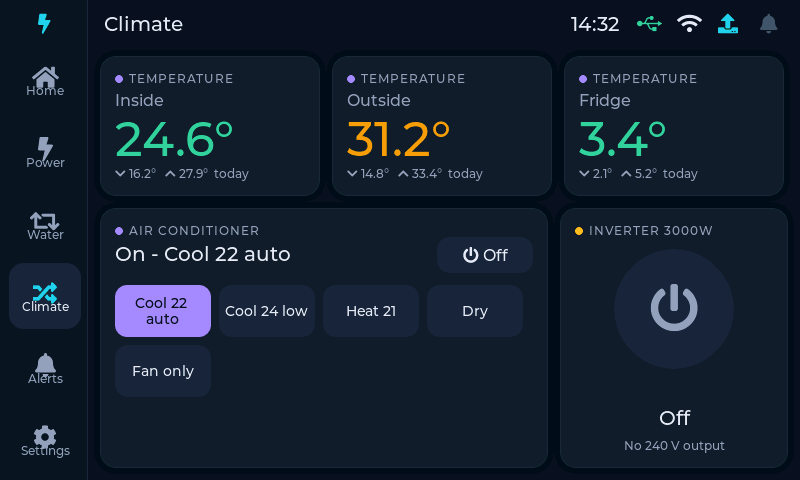
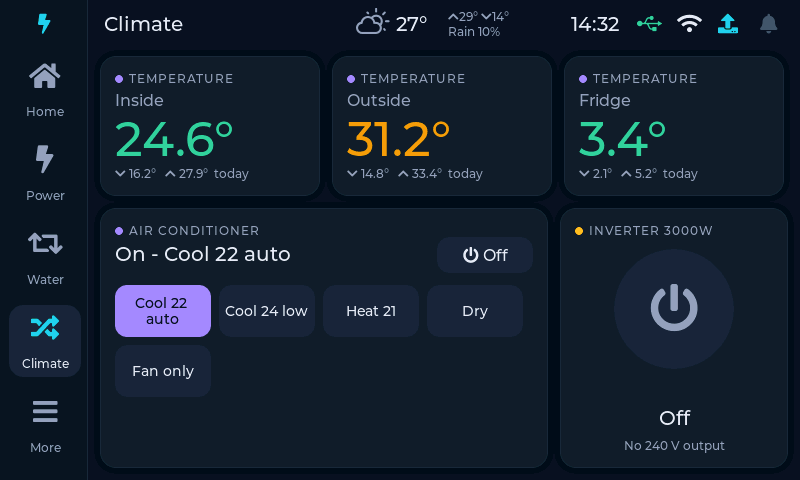
Declutter navigation: everyday pages on the rail, the rest under More
- Nav rail now has 5 larger buttons: Home, Power, Water, Climate, More
- New "More" page with big tiles for Caravan level, Alerts & rules
  (shows the active alert count) and Settings
- Sub-pages light up "More" and show a back arrow in the title (tap to
  return); the status-bar bell is a one-tap shortcut to Alerts, and
  the alert banner still jumps straight there
- Dashboard: Level link moved from the header into the Setup tab
- Screenshots regenerated; README updated

Claude-Session: https://claude.ai/code/session_01PBSbXAepSKBusnyywjQNLq

diff --git a/web/index.html b/web/index.html
@@ -108,7 +108,6 @@ pre { white-space:pre-wrap; font-size:12px; background:var(--tile); padding:10px
 <header>
   <h1>⚡ Caravan Power</h1>
   <span class="sp"></span>
-  <a href="level.html" class="pill" style="text-decoration:none">◎ Level</a>
   <span id="conn" class="pill">Connecting…</span>
   <span id="updated" class="pill">--</span>
 </header>
@@ -206,6 +205,11 @@ pre { white-space:pre-wrap; font-size:12px; background:var(--tile); padding:10px
         <div id="vicRows"></div>
         <div class="row" style="margin-top:8px"><button class="btn" id="vicScan">Find nearby</button></div>
         <div id="vicSeen" class="small muted" style="margin-top:6px"></div>
+      </div>
+      <div class="card span6" style="--dot:var(--accent)">
+        <div class="cap">Caravan level</div>
+        <p class="muted small">Bubble level with wheel and jockey heights. Connects to the van over Bluetooth, so it works at sites without internet.</p>
+        <a class="btn" href="level.html" style="display:inline-block; text-decoration:none">Open level page</a>
       </div>
       <div class="card span6" style="--dot:var(--water)">
         <div class="cap">Weather location</div>

diff --git a/firmware/display/src/ui/ui_common.cpp b/firmware/display/src/ui/ui_common.cpp
@@ -205,15 +205,19 @@ void fmtDuration(char *buf, size_t n, int32_t m) {
 
 // ================================================================ shell
 static lv_obj_t *gPages[PAGE_COUNT];
-static lv_obj_t *gNavBtns[PAGE_COUNT];
+static constexpr int NAV_COUNT = 5;
+static const int kRail[NAV_COUNT] = {PAGE_HOME, PAGE_POWER, PAGE_WATER, PAGE_CLIMATE, PAGE_MORE};
+static lv_obj_t *gNavBtns[NAV_COUNT];
+static lv_obj_t *gMoreAlerts;
 static lv_obj_t *gTitle, *gClock, *gIcoLink, *gIcoWifi, *gIcoCloud, *gBell, *gBellCount;
 static lv_obj_t *gBanner, *gBannerText, *gBannerBtn;
 static int gPage = -1;
 static int gSleepMin = 5;
 
-static const char *kPageNames[PAGE_COUNT] = {"Home", "Power", "Water", "Climate", "Level", "Alerts", "Settings"};
-static const char *kPageIcons[PAGE_COUNT] = {LV_SYMBOL_HOME, LV_SYMBOL_CHARGE, LV_SYMBOL_LOOP, LV_SYMBOL_SHUFFLE,
-                                             LV_SYMBOL_GPS, LV_SYMBOL_BELL, LV_SYMBOL_SETTINGS};
+static const char *kPageNames[PAGE_COUNT] = {"Home", "Power", "Water", "Climate", "More", "Level", "Alerts", "Settings"};
+static const char *kPageIcons[PAGE_COUNT] = {LV_SYMBOL_HOME,  LV_SYMBOL_CHARGE, LV_SYMBOL_LOOP, LV_SYMBOL_SHUFFLE,
+                                             LV_SYMBOL_BARS,  LV_SYMBOL_GPS,    LV_SYMBOL_BELL, LV_SYMBOL_SETTINGS};
+static bool isSubPage(int p) { return p == PAGE_LEVEL || p == PAGE_ALERTS || p == PAGE_SETTINGS; }
 
 int sleepMinutes() { return gSleepMin; }
 
@@ -222,19 +226,65 @@ static void navCb(lv_event_t *e) { showPage((int)(intptr_t)lv_event_get_user_dat
 void showPage(int p) {
   if (p == gPage) return;
   for (int i = 0; i < PAGE_COUNT; i++) {
-    bool on = i == p;
-    if (on) lv_obj_clear_flag(gPages[i], LV_OBJ_FLAG_HIDDEN);
+    if (i == p) lv_obj_clear_flag(gPages[i], LV_OBJ_FLAG_HIDDEN);
     else lv_obj_add_flag(gPages[i], LV_OBJ_FLAG_HIDDEN);
+  }
+  int railPage = isSubPage(p) ? PAGE_MORE : p;  // sub-pages light up "More"
+  for (int i = 0; i < NAV_COUNT; i++) {
+    bool on = kRail[i] == railPage;
     lv_obj_set_style_bg_opa(gNavBtns[i], on ? LV_OPA_COVER : LV_OPA_TRANSP, 0);
     lv_obj_set_style_text_color(lv_obj_get_child(gNavBtns[i], 0), c(on ? col::ACCENT : col::MUTED), 0);
     lv_obj_set_style_text_color(lv_obj_get_child(gNavBtns[i], 1), c(on ? col::TEXT : col::MUTED), 0);
   }
   gPage = p;
-  lv_label_set_text(gTitle, kPageNames[p]);
+  // Sub-pages get a back arrow in the title (tap it to return to More).
+  if (isSubPage(p)) setText(gTitle, LV_SYMBOL_LEFT "  %s", kPageNames[p]);
+  else lv_label_set_text(gTitle, kPageNames[p]);
   app::stateDirty = true;  // refresh the newly visible page right away
 }
 
 static void ackCb(lv_event_t *) { app::cmd("ack"); }
+static void titleCb(lv_event_t *) {
+  if (isSubPage(gPage)) showPage(PAGE_MORE);
+}
+static void bellCb(lv_event_t *) { showPage(PAGE_ALERTS); }
+
+// "More" page: big tiles for the things you only need now and then.
+static void moreTileCb(lv_event_t *e) { showPage((int)(intptr_t)lv_event_get_user_data(e)); }
+static lv_obj_t *moreTile(lv_obj_t *p, int x, int page, const char *sym, const char *title, const char *sub,
+                          uint32_t accent) {
+  lv_obj_t *b = lv_btn_create(p);
+  lv_obj_set_size(b, 216, 220);
+  lv_obj_set_pos(b, x, 96);  // vertically centred in the page
+  lv_obj_set_style_bg_color(b, c(col::CARD), 0);
+  lv_obj_set_style_border_color(b, c(col::BORDER), 0);
+  lv_obj_set_style_border_width(b, 1, 0);
+  lv_obj_set_style_radius(b, 18, 0);
+  lv_obj_set_style_shadow_width(b, 0, 0);
+  lv_obj_add_event_cb(b, moreTileCb, LV_EVENT_CLICKED, (void *)(intptr_t)page);
+  lv_obj_t *ic = lbl(b, &lv_font_montserrat_48, accent, sym);
+  lv_obj_align(ic, LV_ALIGN_TOP_MID, 0, 28);
+  lv_obj_t *t = lbl(b, &lv_font_montserrat_20, col::TEXT, title);
+  lv_obj_align(t, LV_ALIGN_TOP_MID, 0, 112);
+  lv_obj_t *s = lbl(b, &lv_font_montserrat_14, col::MUTED, sub);
+  lv_obj_set_width(s, 190);
+  lv_obj_set_style_text_align(s, LV_TEXT_ALIGN_CENTER, 0);
+  lv_label_set_long_mode(s, LV_LABEL_LONG_WRAP);
+  lv_obj_align(s, LV_ALIGN_TOP_MID, 0, 146);
+  return s;
+}
+
+static void buildMore(lv_obj_t *p) {
+  moreTile(p, 12, PAGE_LEVEL, LV_SYMBOL_GPS, "Caravan level", "Bubble level and wheel / jockey heights", col::ACCENT);
+  gMoreAlerts = moreTile(p, 248, PAGE_ALERTS, LV_SYMBOL_BELL, "Alerts & rules", "", col::WARN);
+  moreTile(p, 484, PAGE_SETTINGS, LV_SYMBOL_SETTINGS, "Settings", "Aircon, weather location, display", col::MUTED);
+}
+
+static void updateMore() {
+  int n = app::state.alertCount;
+  if (n) setText(gMoreAlerts, "%d active alert%s", n, n == 1 ? "" : "s");
+  else setText(gMoreAlerts, "All clear. Edit alert thresholds here");
+}
 static void bannerCb(lv_event_t *) { showPage(PAGE_ALERTS); }
 
 static void buildShell() {
@@ -250,20 +300,22 @@ static void buildShell() {
   lv_obj_set_style_border_color(rail, c(col::BORDER), 0);
   lv_obj_set_style_border_width(rail, 1, 0);
   lv_obj_t *logo = lbl(rail, &lv_font_montserrat_20, col::ACCENT, LV_SYMBOL_CHARGE);
-  lv_obj_align(logo, LV_ALIGN_TOP_MID, 0, 8);
-  for (int i = 0; i < PAGE_COUNT; i++) {
+  lv_obj_align(logo, LV_ALIGN_TOP_MID, 0, 12);
+  for (int i = 0; i < NAV_COUNT; i++) {
+    int pg = kRail[i];
     lv_obj_t *b = lv_btn_create(rail);
-    lv_obj_set_size(b, 72, 58);
-    lv_obj_set_pos(b, 8, 40 + i * 62);
+    lv_obj_set_size(b, 72, 72);
+    lv_obj_set_pos(b, 8, 52 + i * 84);
+    lv_obj_set_style_pad_all(b, 0, 0);
     lv_obj_set_style_radius(b, 14, 0);
     lv_obj_set_style_shadow_width(b, 0, 0);
     lv_obj_set_style_bg_color(b, c(col::TILE), 0);
     lv_obj_set_style_bg_opa(b, LV_OPA_TRANSP, 0);
-    lv_obj_t *ic = lbl(b, &lv_font_montserrat_24, col::MUTED, kPageIcons[i]);
-    lv_obj_align(ic, LV_ALIGN_TOP_MID, 0, 3);
-    lv_obj_t *tx = lbl(b, &lv_font_montserrat_12, col::MUTED, kPageNames[i]);
-    lv_obj_align(tx, LV_ALIGN_BOTTOM_MID, 0, -2);
-    lv_obj_add_event_cb(b, navCb, LV_EVENT_CLICKED, (void *)(intptr_t)i);
+    lv_obj_t *ic = lbl(b, &lv_font_montserrat_28, col::MUTED, kPageIcons[pg]);
+    lv_obj_align(ic, LV_ALIGN_TOP_MID, 0, 8);
+    lv_obj_t *tx = lbl(b, &lv_font_montserrat_12, col::MUTED, kPageNames[pg]);
+    lv_obj_align(tx, LV_ALIGN_BOTTOM_MID, 0, -6);
+    lv_obj_add_event_cb(b, navCb, LV_EVENT_CLICKED, (void *)(intptr_t)pg);
     gNavBtns[i] = b;
   }
 
@@ -271,6 +323,9 @@ static void buildShell() {
   lv_obj_t *bar = panel(scr, 88, 0, 712, 44);
   gTitle = lbl(bar, &lv_font_montserrat_20, col::TEXT, "Home");
   lv_obj_align(gTitle, LV_ALIGN_LEFT_MID, 16, 2);
+  lv_obj_add_flag(gTitle, LV_OBJ_FLAG_CLICKABLE);
+  lv_obj_set_ext_click_area(gTitle, 10);
+  lv_obj_add_event_cb(gTitle, titleCb, LV_EVENT_CLICKED, nullptr);
   gBellCount = lbl(bar, &lv_font_montserrat_12, col::TEXT, "");
   lv_obj_set_style_bg_color(gBellCount, c(col::ALARM), 0);
   lv_obj_set_style_bg_opa(gBellCount, LV_OPA_COVER, 0);
@@ -278,6 +333,9 @@ static void buildShell() {
   lv_obj_set_style_pad_hor(gBellCount, 5, 0);
   lv_obj_align(gBellCount, LV_ALIGN_RIGHT_MID, -12, -8);
   gBell = lbl(bar, &lv_font_montserrat_20, col::DIM, LV_SYMBOL_BELL);
+  lv_obj_add_flag(gBell, LV_OBJ_FLAG_CLICKABLE);  // bell = shortcut to Alerts
+  lv_obj_set_ext_click_area(gBell, 14);
+  lv_obj_add_event_cb(gBell, bellCb, LV_EVENT_CLICKED, nullptr);
   lv_obj_align(gBell, LV_ALIGN_RIGHT_MID, -22, 2);
   gIcoCloud = lbl(bar, &lv_font_montserrat_20, col::DIM, LV_SYMBOL_UPLOAD);
   lv_obj_align(gIcoCloud, LV_ALIGN_RIGHT_MID, -62, 2);
@@ -381,6 +439,7 @@ void begin() {
   buildPower(gPages[PAGE_POWER]);
   buildWater(gPages[PAGE_WATER]);
   buildClimate(gPages[PAGE_CLIMATE]);
+  buildMore(gPages[PAGE_MORE]);
   buildLevel(gPages[PAGE_LEVEL]);
   buildAlerts(gPages[PAGE_ALERTS]);
   buildSettings(gPages[PAGE_SETTINGS]);
@@ -424,6 +483,7 @@ void loop() {
     case PAGE_LEVEL: updateLevel(); break;
     case PAGE_ALERTS: updateAlerts(); break;
     case PAGE_SETTINGS: updateSettings(); break;
+    case PAGE_MORE: updateMore(); break;
   }
   // Power page keeps a history chart even when hidden.
   if (gPage != PAGE_POWER) updatePower();

diff --git a/firmware/display/src/ui/ui.h b/firmware/display/src/ui/ui.h
@@ -9,7 +9,9 @@
 
 namespace ui {
 
-enum Page { PAGE_HOME, PAGE_POWER, PAGE_WATER, PAGE_CLIMATE, PAGE_LEVEL, PAGE_ALERTS, PAGE_SETTINGS, PAGE_COUNT };
+// The nav rail only shows everyday pages; Level, Alerts and Settings live
+// behind "More" (Alerts is also one tap away via the bell / alert banner).
+enum Page { PAGE_HOME, PAGE_POWER, PAGE_WATER, PAGE_CLIMATE, PAGE_MORE, PAGE_LEVEL, PAGE_ALERTS, PAGE_SETTINGS, PAGE_COUNT };
 
 void begin();   // build everything
 void loop();    // refresh widgets from app:: model (call often; cheap if nothing changed)

diff --git a/tests/sim/sim_main.cpp b/tests/sim/sim_main.cpp
@@ -153,6 +153,8 @@ int main() {
   app::state.lvl.pitch = 0.6f;   // front high
   ui::showPage(ui::PAGE_LEVEL);
   shot("08-level");
+  ui::showPage(ui::PAGE_MORE);
+  shot("11-more");
 
   // An active alarm + a warning
   cv::State &s = app::state;

diff --git a/README.md b/README.md
@@ -11,8 +11,10 @@ It talks to the BMPRO system **wirelessly through the OdysseyLink** (the same Bl
 | ![home](docs/img/01-home.png) | ![alarm](docs/img/06-home-alarm.png) |
 | **Power** (per-MPPT tracking + 30 min history) | **Water** (tanks + pump control) |
 | ![power](docs/img/02-power.png) | ![water](docs/img/03-water.png) |
-| **Climate** (temps, aircon presets, inverter) | **Alerts** (active alerts + editable rules) |
-| ![climate](docs/img/04-climate.png) | ![alerts](docs/img/05-alerts.png) |
+| **Climate** (temps, aircon presets, inverter) | **More** (Level, Alerts & rules, Settings: out of the way) |
+| ![climate](docs/img/04-climate.png) | ![more](docs/img/11-more.png) |
+| **Alerts** (active alerts + editable rules) | |
+| ![alerts](docs/img/05-alerts.png) | |
 | **Forecast** (tap the weather in the status bar) | **Level** (bubble + wheel/jockey mm) |
 | ![forecast](docs/img/09-forecast.png) | ![level](docs/img/08-level.png) |
 | **Level on your phone** (Bluetooth, + one-tap weather location) | **Weather location** (town search on the touchscreen) |
@@ -41,7 +43,7 @@ Remote dashboard (desktop and phone, dark and light):
 | Remote access over Starlink | Outbound MQTT over TLS, so it works behind Starlink CGNAT with no port forwarding |
 | Weather forecast | Current conditions in the touchscreen's status bar (on every page, including Home); tap for a 4-day forecast. Also on the dashboard. From [Open-Meteo](https://open-meteo.com) (free, no key). Location set with one tap on the phone level page, a town search on the touchscreen, or the dashboard; no GPS module needed (one is supported but optional). Forecast gusts / rain chance can trigger alerts (default: "Strong wind forecast" > 50 km/h) |
 | Caravan levelling | MPU-6050 on the hub. Bubble level + "raise left wheel 30 mm / jockey down 45 mm" on the touchscreen and **on your phone over Bluetooth** (no Wi-Fi needed). Sensor can be mounted at any angle: *Set level* + *Learn front* calibration, saved permanently |
-| Modern UI on the 7" Waveshare | LVGL 8.3 dark UI, 800×480, nav rail plus 6 pages, screen sleep with wake on alarm |
+| Modern UI on the 7" Waveshare | LVGL 8.3 dark UI, 800×480. The rail shows only everyday pages (Home, Power, Water, Climate); Level, Alerts & rules and Settings sit behind **More**. Tap the bell for alerts. Screen sleeps, wakes on alarm |
 
 ## Architecture
 
@@ -108,7 +110,7 @@ docs/                  wiring, cloud setup, BMPRO notes, protocol reference
    - Add the two Victron Bluetooth keys: dashboard → *Setup* → *Victron solar controllers* (see [docs/WIRING.md](docs/WIRING.md#victron-smartsolar-10050-2---bluetooth)).
    - Connect to the OdysseyLink and decode its protocol: [docs/BMPRO_INTEGRATION.md](docs/BMPRO_INTEGRATION.md). Tanks are calibrated in the Odyssey app as before.
    - Learn the aircon presets: set the Houghton remote to e.g. *Cool 22 auto*, tap *Learn preset* and press the remote's button. Repeat for each mode you use, then do *Learn OFF*.
-   - Calibrate the level sensor: *Level* page → *Set level* (and *Learn front*), see [docs/WIRING.md](docs/WIRING.md#level-sensor-mpu-6050).
+   - Calibrate the level sensor: More → *Caravan level* → *Set level* (and *Learn front*), see [docs/WIRING.md](docs/WIRING.md#level-sensor-mpu-6050).
    - Assign the temperature sensors: dashboard → *Setup* → *Find Bluetooth thermometers*, then pick Inside / Outside / Fridge for each.
 6. **Tune the alert rules** on the Alerts page (+/− thresholds) or in the dashboard (full editor). The defaults suit 12 V lithium: see `loadDefaultRules()` in [`CaravanModel.cpp`](firmware/lib/CaravanCommon/src/CaravanModel.cpp).
 7. **Remove the Trek 3** once the touchscreen shows battery, tanks and pumps from the BMPRO, and after the unplug test in the BMPRO doc passes.
@@ -157,7 +159,7 @@ Open `web/index.html?demo` in a browser to try the dashboard with fake data.
 - **Fusing:** Fuse every new 12 V feed at the source: 2 A for the hub/display (and pump-rated fuses if you use the relay fallback).
 - **Pump backup:** the Odyssey phone app keeps working alongside the hub, so you can still run the pumps if the hub is ever down.
 - **Load shedding:** Automatic actions only ever turn things **off**. Nothing is switched on without a person pressing a button.
-- **Remote control:** It can be disabled from the touchscreen (Settings → *Allow remote control*). That switch can't be changed from the cloud.
+- **Remote control:** It can be disabled from the touchscreen (More → Settings → *Allow remote control*). That switch can't be changed from the cloud.
 
 ## Credits
 
